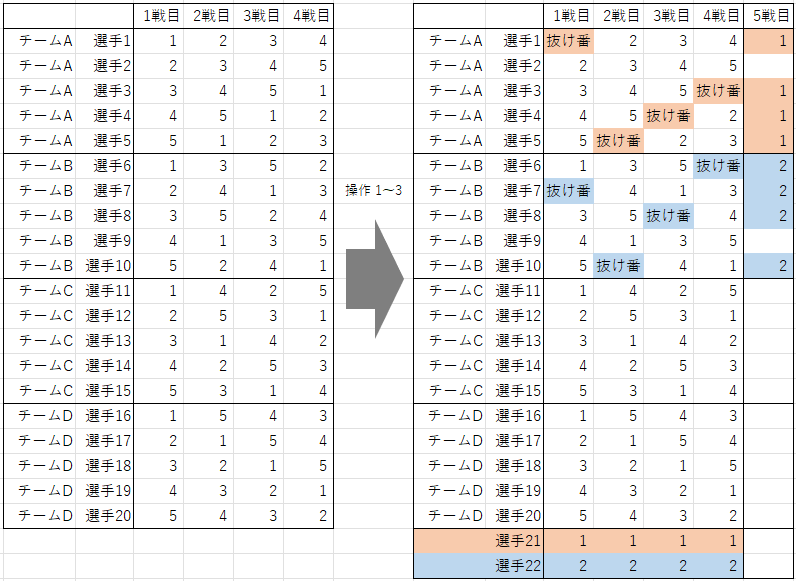
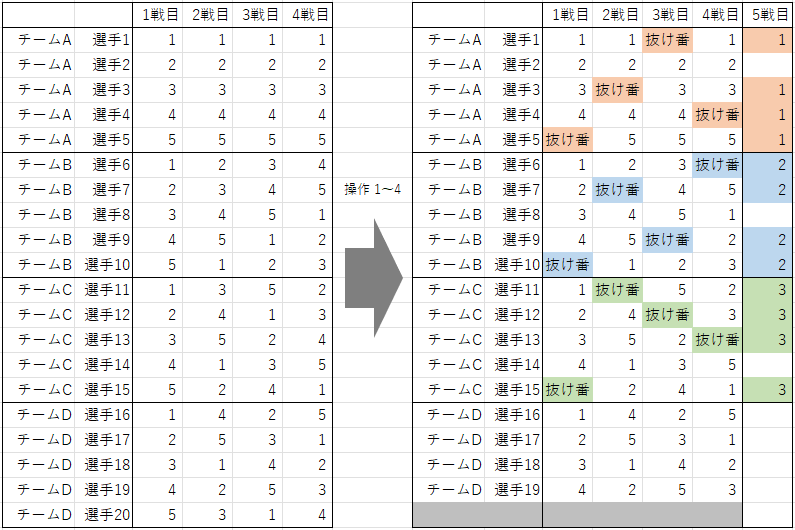
update method

Changed region(s): [[0.0, 0.0, 1.0, 1.0], [0.3321, 0.966, 0.3623, 0.9962], [0.2113, 0.966, 0.2415, 0.9962]]

diff --git a/public/nukeari_4and1_sen_method.html b/public/nukeari_4and1_sen_method.html
@@ -25,23 +25,21 @@
 
     <h2>方法</h2>
 
-    <h3>① 21 人以上 (n ≧ 5) の場合</h3>
+    <h3>① 19 人以上 (n ≧ 5 または (n, k) = (4, 3)) の場合</h3>
+
+    <p>k の値 (人数を 4 で割った余り) に応じて、以下の操作を行います。</p>
+
+    <h4>k = 1 の場合</h4>
 
     <p>
-      n 卓の 4 チーム戦の卓組を 4 戦分用意します。<br />
+      <b>n 卓の 4 チーム戦の卓組を 4 戦分</b>用意します。<br />
       その際、(どの選手も同じ相手と複数回同卓しないことは前提で、それに加え)
       <b>同じ卓を複数回使用する人がいない</b>ように、各対戦の卓番号を調整します。<br />
       <a href="4team_sen_method.html">4チーム戦 卓組作成方法</a>の ① で作ったものを使う場合は、全員の卓番号を、2 戦目は +1、3 戦目は +2、4 戦目は +3
       とずらすことでうまくいきます。<br />
       ② で作ったものを使う場合は、4 戦の抜き出し方や、各対戦の卓番号のずらす数をプログラムで全探索すると、うまく調整できます。<br />
-      下の画像は、n = 5 の場合の例です。
+      その後、以下の操作を行います。
     </p>
-
-    <img src="images/nukeari_01.png" alt="5 卓の 4 チーム戦の卓番号をずらす例" />
-
-    <p>その後、k の値 (人数を 4 で割った余り) に応じて、以下の操作を行います。</p>
-
-    <h4>k = 1 の場合</h4>
 
     <ol>
       <li>4 チーム戦の卓組の末尾に 1 人を付け足す (これで合計が n 人になる)。全ての対戦に「卓番号 1」を記入する。</li>
@@ -51,9 +49,14 @@
 
     <p>下の画像は、21 人 (n = 5, k = 1) の場合の例です。</p>
 
-    <img src="images/nukeari_02.png" alt="21 人 (n = 5, k = 1) の場合に操作をする例" />
+    <img src="images/nukeari_01.png" alt="5 卓の 4 チーム戦の卓組 4 戦分を元に 21 人 (n = 5, k = 1) の抜け番あり 4 + 1 戦の卓組を作る例" />
 
     <h4>k = 2 の場合</h4>
+
+    <p>
+      <b>n 卓の 4 チーム戦の卓組を 4 戦分</b>用意し、<b>同じ卓を複数回使用する人がいない</b>ように、各対戦の卓番号を調整するところまでは「余り k = 1
+      の場合」と同じです。<br />その後、以下の操作を行います。
+    </p>
 
     <ol>
       <li>4 チーム戦の卓組の末尾に 2 人を付け足す (これで合計が n 人になる)。</li>
@@ -75,23 +78,16 @@
 
     <p>下の画像は、22 人 (n = 5, k = 2) の場合の例です。</p>
 
-    <img src="images/nukeari_03.png" alt="22 人 (n = 5, k = 2) の場合に操作をする例" />
+    <img src="images/nukeari_02.png" alt="5 卓の 4 チーム戦の卓組 4 戦分を元に 22 人 (n = 5, k = 2) の抜け番あり 4 + 1 戦の卓組を作る例" />
 
     <h4>k = 3 の場合</h4>
 
+    <p><b>4(n+1) 人の個人戦の卓組</b> (すなわち、作りたい抜け番あり卓組より 1 人多いもの) <b>を 4 戦分</b>を用意し、以下の操作を行います。</p>
+
     <ol>
-      <li>4 チーム戦の卓組の末尾に 3 人を付け足す (これで合計が n 人になる)。</li>
-      <ul>
-        <li>付け足した 1 人目の全ての対戦に「卓番号 1」を記入する。</li>
-        <li>付け足した 2 人目の全ての対戦に「卓番号 2」を記入する。</li>
-        <li>付け足した 3 人目の全ての対戦に「卓番号 3」を記入する。</li>
-      </ul>
-      <li>以下をすべて「抜け番」に書き換える。</li>
-      <ul>
-        <li>1 チーム目の全ての対戦の「卓番号 1」</li>
-        <li>2 チーム目の全ての対戦の「卓番号 2」</li>
-        <li>3 チーム目の全ての対戦の「卓番号 3」</li>
-      </ul>
+      <li>末尾の選手の 1 戦目の卓番号を確認し、1 戦目のその番号すべて (4 か所) を「抜け番」に書き換える。</li>
+      <li>2 ～ 4 戦目も同様に行う。</li>
+      <li>末尾の選手を削除する。</li>
       <li>卓組の右に 1 戦を付け足し、抜け番を経験した選手に、以下のように記入する。</li>
       <ul>
         <li>1 チーム目の選手に「卓番号 1」を記入する。</li>
@@ -100,9 +96,9 @@
       </ul>
     </ol>
 
-    <p>下の画像は、23 人 (n = 5, k = 3) の場合の例です。</p>
+    <p>下の画像は、19 人 (n = 4, k = 3) の場合の例です。</p>
 
-    <img src="images/nukeari_04.png" alt="23 人 (n = 5, k = 3) の場合に操作をする例" />
+    <img src="images/nukeari_03.png" alt="5 卓の個人戦の卓組 4 戦分を元に 19 人 (n = 4, k = 3) の抜け番あり 4 + 1 戦の卓組を作る例" />
 
     <br />
     <a href="index.html#nukeari_4and1_sen">卓組一覧「抜け番あり 1人4戦 合計5戦」へ戻る</a>
